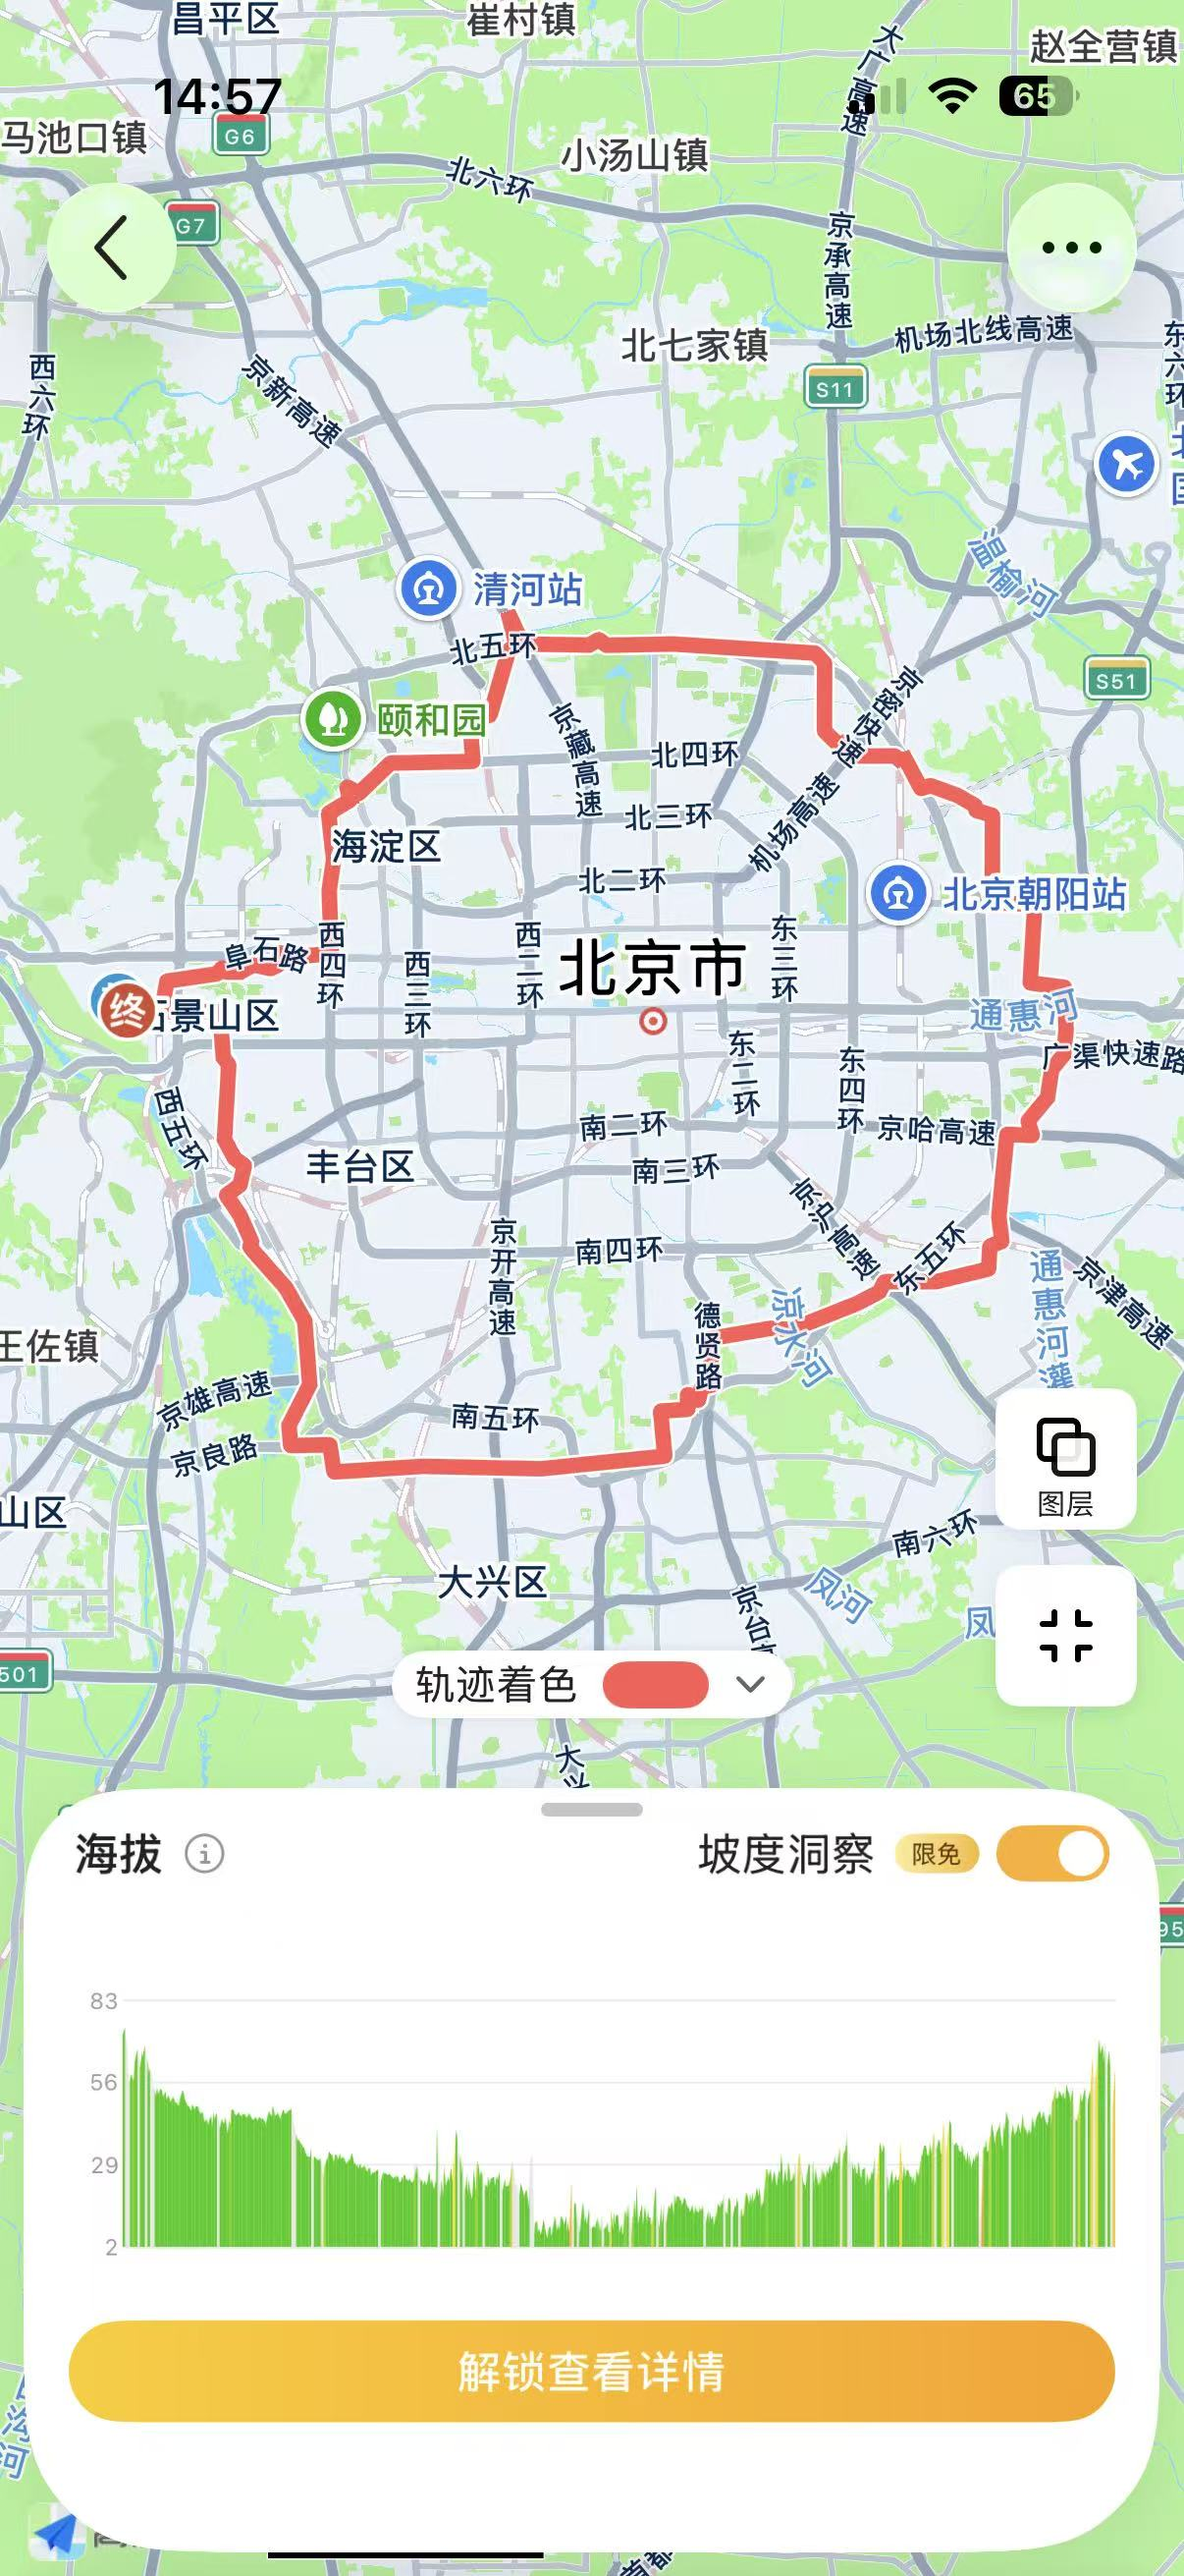
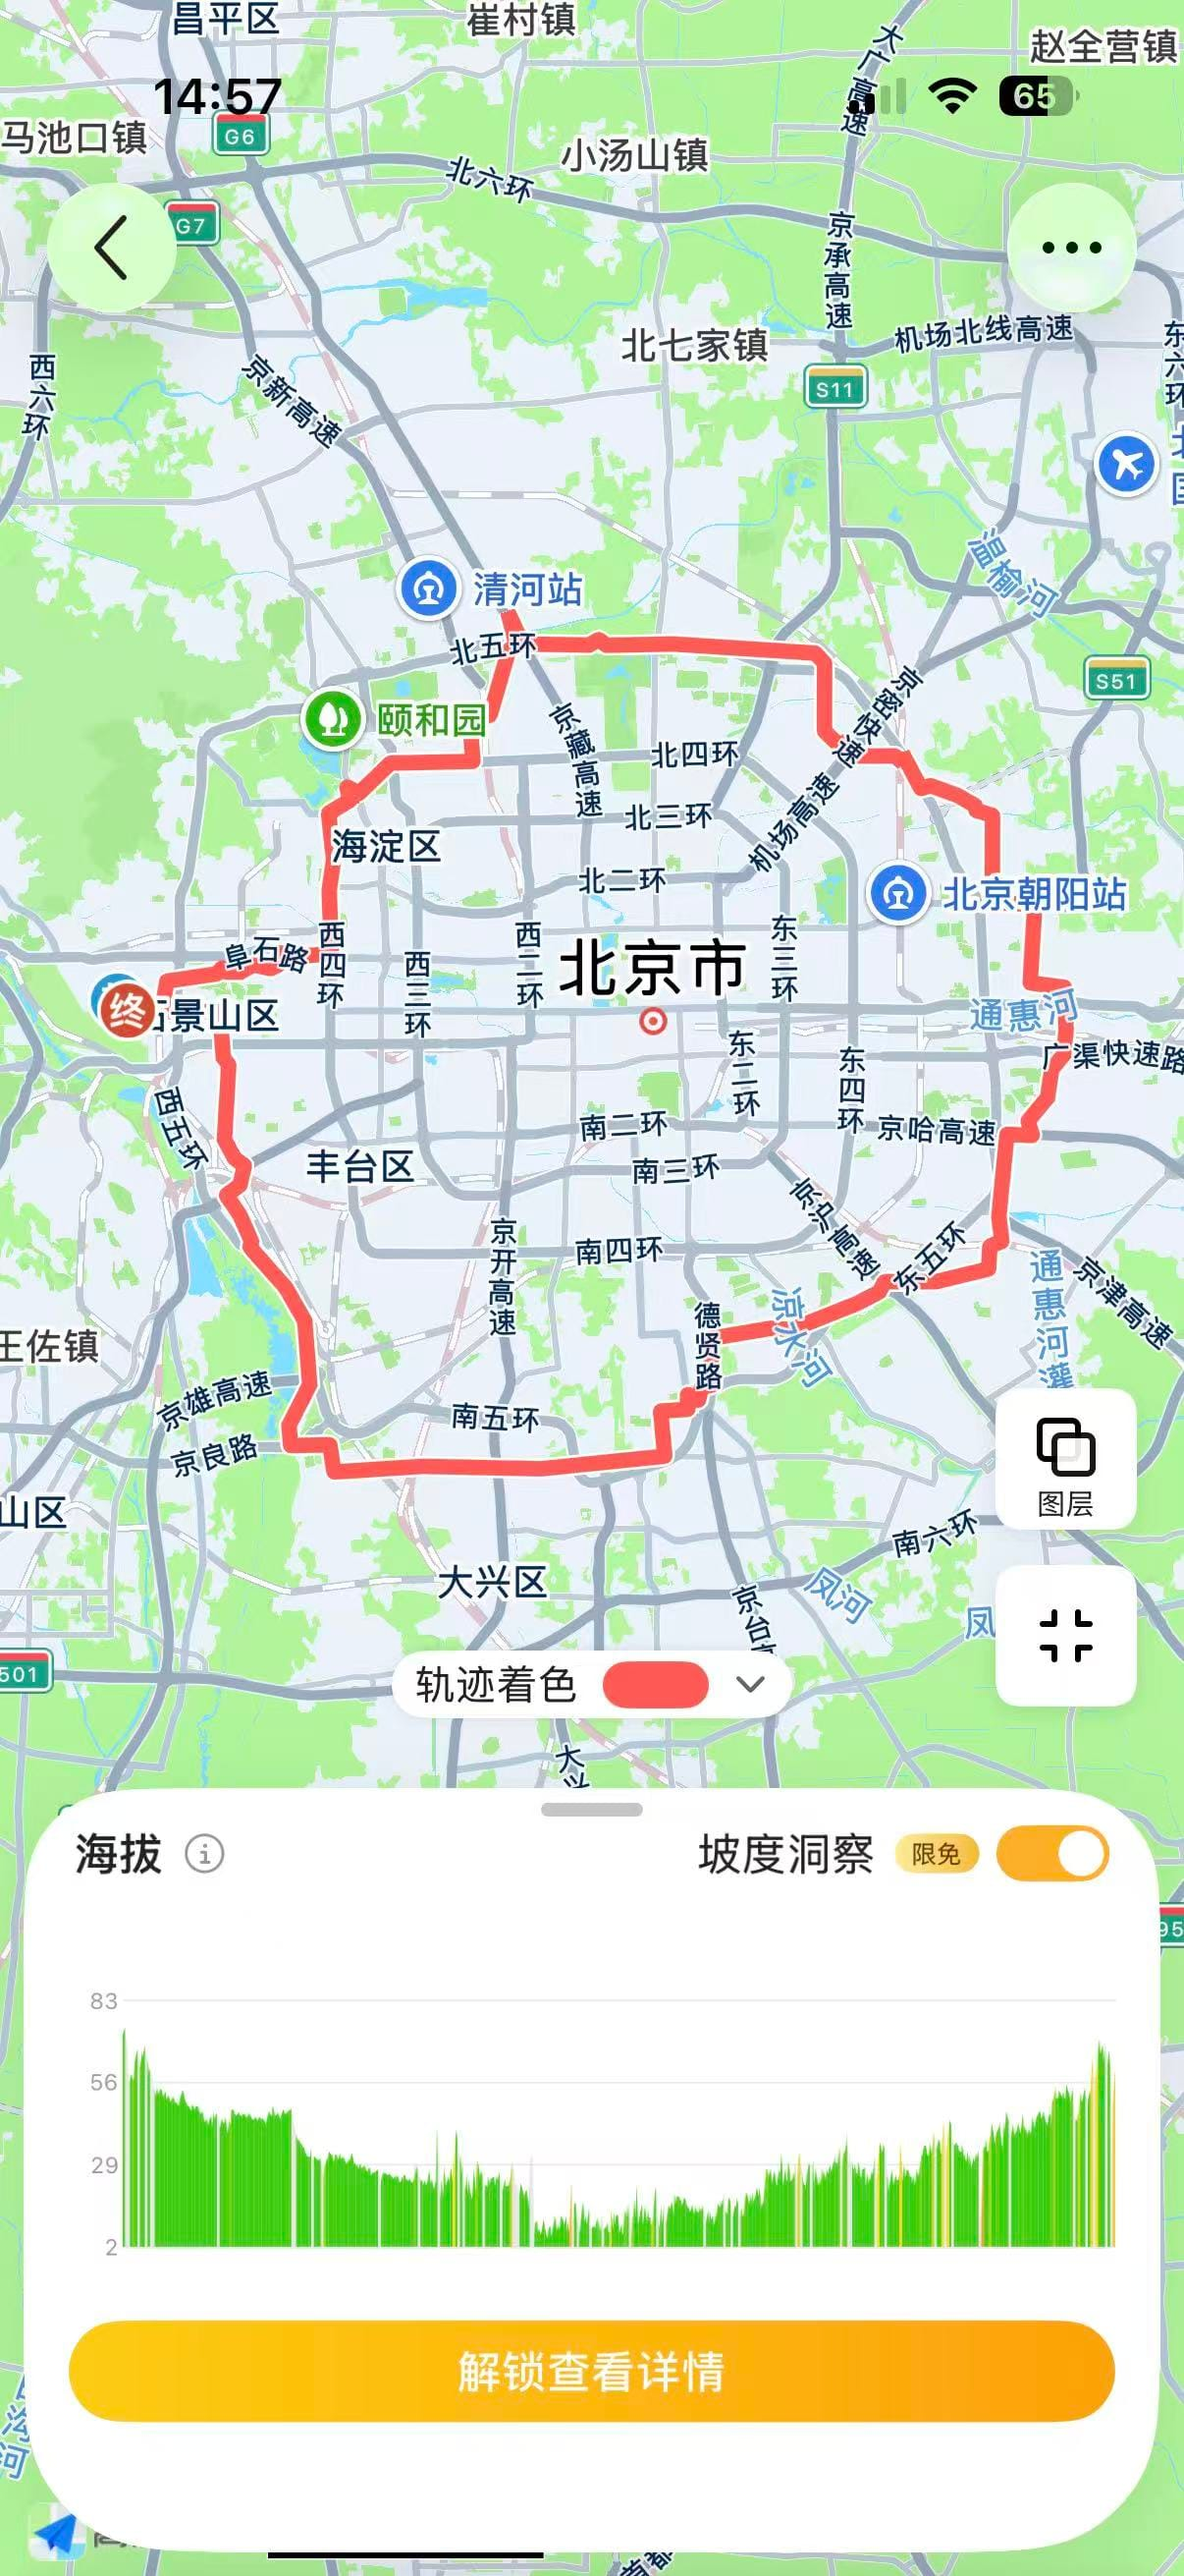
perf: compress site images and convert large PNGs to WebP
Convert six PNG screenshots/diagrams to WebP and recompress journal JPGs,
shrinking public/static from 6.4 MB to 1.2 MB. Update image references,
fix the about portrait's intrinsic height, and refresh the evidence
snapshot for the extension-only change in project-parliament.mdx.

diff --git a/components/AboutProfile.tsx b/components/AboutProfile.tsx
@@ -94,10 +94,10 @@ export default function AboutProfile() {
           <div className="relative order-1 border-b border-[var(--rule)] bg-[#162127] p-3 sm:p-5 lg:order-2 lg:border-b-0 lg:border-l">
             <div className="overflow-hidden rounded-2xl shadow-2xl shadow-black/30">
               <Image
-                src="/static/images/about-engineer.png"
+                src="/static/images/about-engineer.webp"
                 alt={copy.portrait}
                 width={1122}
-                height={1536}
+                height={1402}
                 priority
                 sizes="(max-width: 1023px) calc(100vw - 3rem), 38vw"
                 className="h-auto w-full"

diff --git a/data/projectsData.ts b/data/projectsData.ts
@@ -24,7 +24,7 @@ const projectsData: Project[] = [
     },
     description:
       'Lab #01 · 持续迭代 · 两个周末完成。一个面向开发者的多模型开源项目方向评估实验：让模型先发散、再辩论，最后收敛出可执行的主路线与备选路线。\n\nFastAPI / OpenRouter / Multi-model workflow',
-    imgSrc: '/static/images/projects/project-parliament-homepage.png',
+    imgSrc: '/static/images/projects/project-parliament-homepage.webp',
     href: '/blog/project-parliament',
     domains: ['product-thinking', 'open-source-writing'],
     lab: 'Lab #01',
